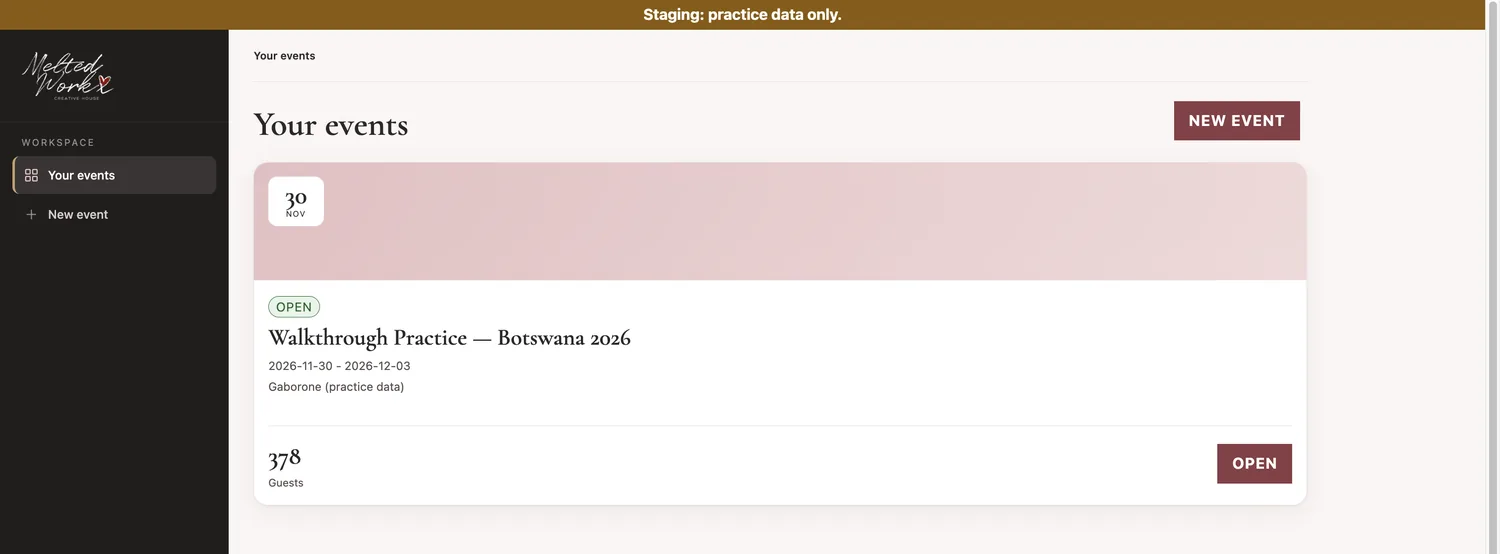
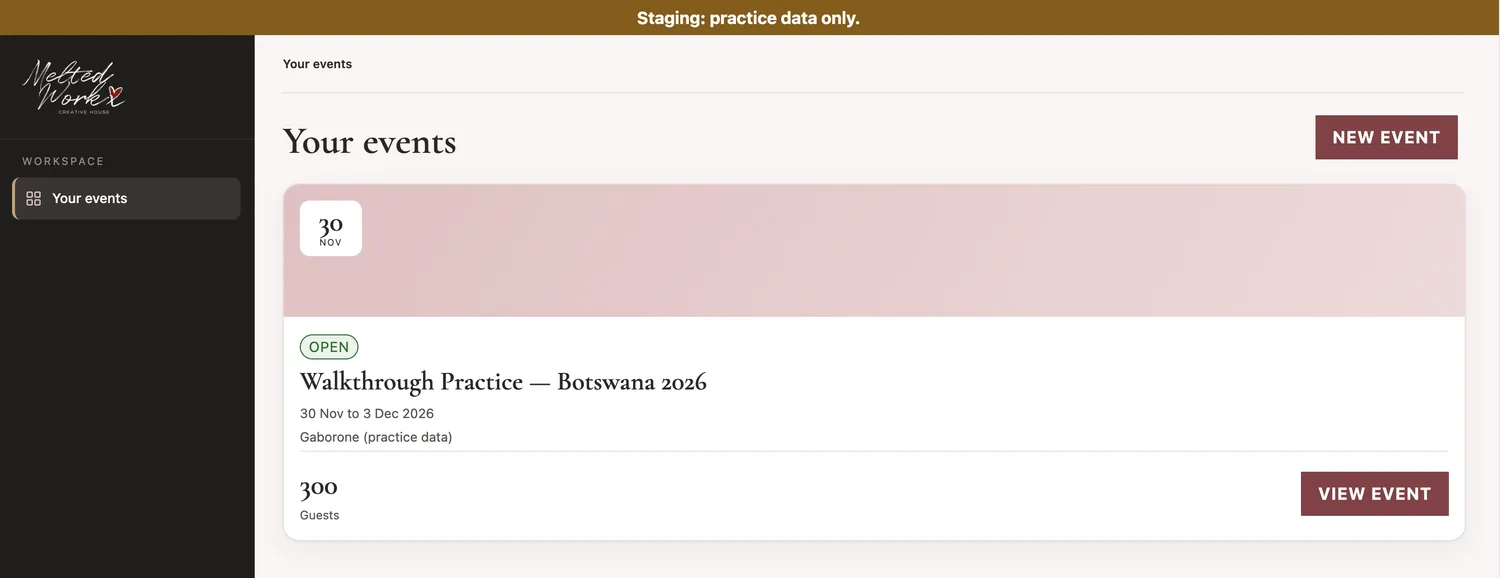
Guide: screens and dots updated to the current app (View event, Badges, Event settings); new lessons 11 Print badges and 12 Event settings; consent labels note removed
Claude-Session: https://claude.ai/code/session_01N73uZ8eB831CeU7QP6mg8R

Changed region(s): [[0.0, 0.0, 1.0, 1.0], [0.0, 0.0921, 0.092, 0.1841]]

diff --git a/meltedworkx-001/guide/index.html b/meltedworkx-001/guide/index.html
@@ -168,22 +168,24 @@ const LESSONS=[
 {id:"your-events",name:"Find your event",eyebrow:"Lesson 2",title:"Find your event",
  why:"Each event lives on its own card. Guests from one event never mix with another.",
  screens:[{label:"Your events",img:"events",pins:[
-  P(44.5,60.82,"The event card","The event's name, dates and venue. Botswana has its own card."),
-  P(22.5,83.72,"Guests","How many guests are in this event right now."),
-  P(78.6,83.51,"Open","Click here to go inside the event. This is the button you will use most."),
-  P(10.6,31.51,"Your events","From anywhere in the platform, this brings you back to this list.")],
-  steps:["Find the card for your event.","Click the burgundy <b>Open</b> button on the card."]}],
- quiz:{q:"How do you get inside the Botswana event?",o:["Click the Open button on its card","Click New event","Type the event name in the browser"],a:0,
-  why:"Open takes you in. New event is only for creating a different event."}},
+  P(50.0,66.0,"The event card","The event's name, dates and venue. Botswana has its own card."),
+  P(26.1,60.0,"Open","Open means the event is running and ready to use."),
+  P(25.2,84.0,"Guests","How many guests are in this event right now."),
+  P(84.4,85.2,"View event","Click here to go inside the event. This is the button you will use most."),
+  P(14.7,34.3,"Your events","From anywhere in the platform, this brings you back to this list.")],
+  steps:["Find the card for your event.","Click the burgundy <b>View event</b> button on the card."]}],
+ quiz:{q:"How do you get inside the Botswana event?",o:["Click the View event button on its card","Click New event","Type the event name in the browser"],a:0,
+  why:"View event takes you in. New event is only for creating a different event."}},
 
 {id:"morning-check",name:"The morning check",eyebrow:"Lesson 3",title:"The morning check",
  why:"One page replaces the sheets and the chats. Thirty seconds here tells you where the event stands.",
  screens:[{label:"The four numbers",img:"overview-top",pins:[
-  P(12,50,"The menu","Everything about this event: Guests, Import, Messages, Check-in and Crew. Overview is this page."),
-  P(24.1,56.86,"Guests","Everyone in the event."),
-  P(40.91,56.86,"Check-ins","How many check-ins have been recorded across all the days."),
-  P(57.73,56.86,"Messages sent","Messages that went out to guests."),
-  P(74.55,56.86,"Failed messages","In red because a person needs to look. Lesson 8 shows what to do.")],
+  P(13.8,51.2,"The menu","Everything about this event: Overview, Guests, Import, Messages, Check-in, Crew, Badges and Event settings. Overview is this page."),
+  P(49.5,30.5,"Open the check-in desk","A shortcut to the check-in desk. Lesson 9 shows how to use it."),
+  P(32.1,37.5,"Guests","Everyone in the event."),
+  P(50.3,37.5,"Check-ins","How many check-ins have been recorded across all the days."),
+  P(68.1,37.5,"Messages sent","Messages that went out to guests."),
+  P(86.0,37.5,"Failed messages","In red because a person needs to look. Lesson 8 shows what to do.")],
   steps:["Open your event. You land on <b>Overview</b>.","Read the four numbers from left to right.","If the red number is not zero, scroll down to <b>Needs attention</b>."]},
  {label:"The detail below",img:"overview-low",pins:[
   P(49.36,23.72,"Check-in, day by day","Arrivals on 30 November, then 1, 2 and 3 December. Each row shows how many guests are checked in for that day."),
@@ -197,23 +199,25 @@ const LESSONS=[
 {id:"guest-list",name:"Your guest list",eyebrow:"Lesson 4",title:"Your guest list",
  why:"Every guest in one list, with their contact details and whether they agreed to be messaged.",
  screens:[{label:"Guests",img:"guests",pins:[
-  P(26,6.18,"How many","The total for this event."),
-  P(27.5,19.41,"A guest's name","Click a name to open that guest. That is where you correct a flight, a pick-up time or a hotel for one person."),
-  P(81.6,29.9,"Green: agreed","This guest ticked the box, so they can be messaged."),
-  P(81.6,46.08,"Grey or red","Grey means the guest was never asked. Red means they said no. Neither will be messaged."),
-  P(83.2,7.94,"Import guest list","Adds guests from a file. The next lesson walks through it."),
-  P(66,13.4,"Export CSV","Downloads the list as a spreadsheet file.")],
+  P(27.5,17.2,"How many","The total for this event."),
+  P(31.7,31.8,"A guest's name","Click a name to open that guest. That is where you correct a flight, a pick-up time or a hotel for one person."),
+  P(87.2,31.5,"Can be messaged","This guest agreed, so they can be messaged."),
+  P(87.2,73.1,"Not asked yet","Grey means the guest was never asked. They will not be messaged."),
+  P(87.2,61.2,"Said no","Red means the guest said no. They will not be messaged."),
+  P(81.4,14.6,"Import guest list","Adds guests from a file. The next lesson walks through it."),
+  P(71.7,14.6,"Export CSV","Downloads the list as a spreadsheet file."),
+  P(63.9,14.6,"Print check-in badges","Opens the badges to print. Lesson 11 shows how.")],
   steps:["Click <b>Guests</b> in the menu.","Click a guest's name to see or correct their details."]}],
- note:"<b>These labels are being simplified.</b> The words in the last column will soon read \"Can be messaged\", \"Not asked yet\" and \"Said no\".",
  quiz:{q:"One guest's flight changed. Where do you fix it?",o:["Upload the whole guest list again","Open Guests and click that guest's name","Phone Deon"],a:1,
   why:"One guest, one click on their name. No need to re-upload anything."}},
 
 {id:"add-guests",name:"Bring in a guest list",eyebrow:"Lesson 5",title:"Bring in a guest list",
  why:"Your Google Form answers go in as a file. The platform reads it, shows you what it found, and saves nothing until you say so.",
  screens:[{label:"1. Upload",img:"import",pins:[
-  P(43,79.83,"Choose file","Pick the file from your computer. It must be a CSV file."),
-  P(24.5,89.32,"Upload and check the list","The platform reads the file and shows you a preview. Nothing is saved yet."),
-  P(19.5,41.53,"Shuttle list","A different job, for pick-up times. It has its own lesson.")],
+  P(47.2,82.7,"Choose file","Pick the file from your computer. It must be a CSV file."),
+  P(33.2,90.9,"Upload and check the list","The platform reads the file and shows you a preview. Nothing is saved yet."),
+  P(29.8,49.8,"Shuttle list","A different job, for pick-up times. It has its own lesson."),
+  P(56.9,74.0,"CSV only","Up to 5 MB and 5,000 rows. An Excel file (.xlsx) will not upload: download it as a CSV first.")],
   steps:["In Google Sheets: <b>File, Download, Comma-separated values (.csv)</b>.","In the platform, click <b>Import</b> in the menu.","Click <b>Choose file</b>, pick the CSV, then <b>Upload and check the list</b>."]},
  {label:"2. Match the columns",img:"import-match",pins:[
   P(11.67,33.75,"Your form's questions","Each line is one question from your Google Form."),
@@ -252,23 +256,21 @@ const LESSONS=[
 {id:"send-message",name:"Send a message",eyebrow:"Lesson 7",title:"Send a message",
  why:"Pick the message, pick who gets it, look at the preview, confirm. The platform does the rest.",
  screens:[{label:"1. Messages",img:"messaging",pins:[
-  P(70.5,30,"Send to guests","Start here to send. You always see a preview first."),
-  P(94.5,30,"Outbox","What happened to every message: sent, delivered, failed or blocked."),
-  P(46.6,30,"Templates","The wording of each message. Deon looks after these.")],
+  P(30.4,69.7,"Templates","The wording of each message, and whether WhatsApp has approved it. Deon looks after these."),
+  P(61.3,69.7,"Send to guests","Start here to send. You always see a preview first."),
+  P(92.6,69.7,"Outbox","What happened to every message: sent, delivered, failed or blocked.")],
   steps:["Click <b>Messages</b> in the menu.","Click <b>Send to guests</b>."]},
- {label:"2. Choose and confirm",sketch:[
-  ["Choose what to send","Pick the message, for example the shuttle departure notice."],
-  ["How sent","WhatsApp or SMS."],
-  ["Who gets it","One guest (search by name), the guests with a certain pick-up date, or everyone."],
-  ["Preview","Read the message exactly as the guest will see it."],
-  ["Confirm and queue","The message joins the queue to be sent."]],
-  steps:["Choose the message and how it is sent.","Choose who gets it.","Read the preview, then click <b>Confirm and queue</b>."]},
+ {label:"2. Choose and confirm",img:"send",pins:[
+  P(45.1,38.3,"Find a guest","Only for sending to one person. Type a name or reservation number. Skip it to send to everyone."),
+  P(78.3,60.3,"Message","Pick which message to send, for example the shuttle departure notice."),
+  P(78.3,71.1,"How sent","WhatsApp or SMS."),
+  P(76.6,82.4,"Who gets it","All guests, or one guest. Guests who did not agree are skipped automatically.")],
+  steps:["Choose the message and how it is sent.","Choose who gets it: one guest, the guests with a certain pick-up date, or everyone.","Read the preview exactly as the guest will see it, then click <b>Confirm and queue</b>."]},
  {label:"3. See what happened",img:"results",pins:[
-  P(26.05,20.33,"The totals","How many messages, and how many failed."),
-  P(26,28.62,"Send waiting messages now","Only in the practice version, so you can watch it happen. In the real version messages send by themselves."),
-  P(80,37.97,"Filters","Click one to see only those messages, for example Failed."),
-  P(47,47.8,"Status","Waiting to send, Sent or Delivered."),
-  P(69,88.86,"Failed, in red","The reason is written next to it. Lesson 8 covers what to do.")],
+  P(22.7,32.6,"The totals","How many messages, and how many failed."),
+  P(25.4,46.3,"Send waiting messages now","Only in the practice version, so you can watch it happen. In the real version messages send by themselves."),
+  P(66.9,63.6,"Filters","Click one to see only those messages, for example Failed or Blocked."),
+  P(55.8,78.9,"Blocked, in red","The reason is written under the status. Here the guest never agreed to be messaged, so nothing was sent. Lesson 8 covers messages that failed.")],
   steps:["Open <b>Outbox</b> to follow your messages.","Look for red rows."]}],
  quiz:{q:"You clicked Confirm and queue. Has the guest received the message yet?",o:["Yes, instantly","Not yet. It is in the queue and is sent shortly after","Only if you phone them"],a:1,
   why:"Confirming puts the message in the queue. The Outbox shows when it is sent and delivered."}},
@@ -285,14 +287,13 @@ const LESSONS=[
   why:"Three tries, then it is put in front of a person."}},
 
 {id:"check-in",name:"Check guests in",eyebrow:"Lesson 9",title:"Check guests in",
- why:"On the day you find each guest by name. No scanner, no printed list.",
+ why:"On the day you find each guest by name, and check them in for that day.",
  screens:[{label:"The check-in desk",img:"checkin",pins:[
-  P(44,19.79,"Pick the day","Day 1 is arrivals on 30 November. Days 2 to 4 are 1, 2 and 3 December."),
-  P(48.5,25.52,"The count","How many guests are checked in for the chosen day."),
-  P(49.44,36.15,"Find a guest","Type part of a name or a reservation number."),
-  P(21.5,42.5,"Search","Click to see the matching guests, then check the right one in."),
-  P(49.44,70.83,"Recent check-ins","The last guests checked in, newest first."),
-  P(64.5,95.83,"Without internet","Use this desk when the wifi is unreliable. See the next tab.")],
+  P(49.3,31.3,"Pick the day","Day 1 is arrivals on 30 November. Days 2 to 4 are 1, 2 and 3 December."),
+  P(53.4,39.5,"The count","How many guests are checked in for the chosen day."),
+  P(94.5,55.7,"Find a guest","Type part of a name or a reservation number."),
+  P(24.0,65.1,"Search","Click to see the matching guests, then check the right one in."),
+  P(53.4,77.6,"Recent check-ins","The last guests checked in, newest first.")],
   steps:["Click <b>Check-in</b> in the menu.","Make sure the right day is selected.","Type the guest's name, click <b>Search</b>, and check them in."]},
  {label:"If the wifi drops",sketch:[
   ["Open the offline desk before doors open","Do it with wifi on, and wait until the guest list has loaded."],
@@ -307,18 +308,44 @@ const LESSONS=[
 {id:"crew-access",name:"Give your crew access",eyebrow:"Lesson 10",title:"Give your crew access",
  why:"Door staff get the check-in desk for this event and nothing else.",
  screens:[{label:"Crew",img:"crew",pins:[
-  P(38.31,31.94,"Name","The crew member's name."),
-  P(38.31,43.19,"Email","Their email address. It becomes their login."),
-  P(38.31,54.44,"Role label","Optional. For example \"Door staff\"."),
-  P(30,62.64,"Create crew access","Creates their login and shows a one-time password."),
-  P(88.5,92.36,"Switch off","Removes that person's access straight away."),
-  P(27.6,76.3,"Status","Active or Switched off, and the date their access ends.")],
+  P(80.7,31.1,"Name","The crew member's name."),
+  P(80.7,42.7,"Email","Their email address. It becomes their login."),
+  P(80.7,54.3,"Role label","Optional. For example \"Door staff\"."),
+  P(31.0,62.9,"Create crew access","Creates their login and shows a one-time password."),
+  P(39.8,96.1,"Status","Active or Switched off, and the date their access ends."),
+  P(93.6,93.9,"Switch off","Removes that person's access straight away.")],
   steps:["Click <b>Crew</b> in the menu.","Type the person's name and email, then click <b>Create crew access</b>.","Give them the one-time password in person, there and then."]}],
  note:"<b>The password is shown once.</b> It cannot be looked up later. If it is lost, create the access again.",
  quiz:{q:"The one-time password appears on your screen. What do you do with it?",o:["Email it to the crew member","Give it to them in person, right away","Save it for later"],a:1,
   why:"In person, straight away. It is shown once and never again."}},
 
-{id:"ipad-test",name:"Test your iPad",eyebrow:"Lesson 11 · about 10 minutes · on the iPad",title:"Test your iPad without wifi",
+{id:"badges",name:"Print badges",eyebrow:"Lesson 11",title:"Print check-in badges",
+ why:"One badge per guest, ready to print. Each has a scan code for your staff.",
+ screens:[{label:"Print badges",img:"badges",pins:[
+  P(96.7,22.0,"Printing","Use your browser's Print command (Ctrl or Cmd and P). Each badge stays whole on an A4 page. Do not email or WhatsApp these images to guests."),
+  P(29.4,36.3,"Order","Choose the order the badges print in. The default is surname, then first name."),
+  P(16.1,45.7,"Pages","Badges come 100 at a time. Use Next page to get the rest."),
+  P(35.6,79.1,"One badge","One badge per guest: their name and a scan code. The code holds no name or contact details, and is for staff scanning only.")],
+  steps:["Click <b>Badges</b> in the menu, or <b>Print check-in badges</b> on the Guests page.","Choose the order, then use your browser's Print command.","Badges come 100 at a time. Click <b>Next page</b> for the rest."]}],
+ note:"<b>Check-in by name always works too.</b> A guest without a badge can still be found and checked in at the desk.",
+ quiz:{q:"Can you WhatsApp a badge image to a guest?",o:["Yes, it is only a picture","No. Badges are printed, never sent to guests as images","Only to VIPs"],a:1,
+  why:"The page says not to email or WhatsApp the images. The scan code is for staff scanning only."}},
+
+{id:"event-settings",name:"Event settings",eyebrow:"Lesson 12",title:"Event settings",
+ why:"The event's name, dates, venue and expected headcount live in one place. You will rarely need it.",
+ screens:[{label:"Event settings",img:"settings",pins:[
+  P(61.4,50.7,"Name","The event's name, as everyone sees it."),
+  P(66.9,35.5,"The warning","Once guests are in, changing the dates is allowed but may affect their travel."),
+  P(61.4,60.2,"Start and end date","The first and last day of the event."),
+  P(61.4,70.3,"Expected headcount","How many people you expect."),
+  P(17.2,77.6,"Save changes","Nothing changes until you click this."),
+  P(14.8,93.1,"Close event","Hides the event when it is over. Nothing is deleted.")],
+  steps:["Click <b>Event settings</b> in the menu.","Change what you need, then click <b>Save changes</b>.","Use <b>Close event</b> only when the event is over."]}],
+ note:"<b>Closing hides the event. Nothing is deleted.</b> The guests and their records stay safe.",
+ quiz:{q:"What does Close event do?",o:["Deletes the event and its guests","Hides the event. Nothing is deleted","Sends every guest a goodbye message"],a:1,
+  why:"Closing only hides the event. Nothing is deleted."}},
+
+{id:"ipad-test",name:"Test your iPad",eyebrow:"Lesson 13 · about 10 minutes · on the iPad",title:"Test your iPad without wifi",
  why:"We have not tried your iPad yet. It is an older model, so this short test shows whether it can check guests in with no internet. Either answer is useful, and there is time to adjust before 30 November.",
  check:[
   ["Open the offline desk","On the iPad, in Safari, with wifi on: sign in, tap Check-in, then tap the link \"Internet unreliable? Use without internet\"."],
@@ -330,7 +357,7 @@ const LESSONS=[
   ["Turn Airplane Mode off","The line should go back to Online and the waiting check-in should save by itself. If it does not, tap \"Send saved check-ins now\"."],
   ["Sign out and clear this device","Tap it at the end. The guest list should be gone from the iPad."]]},
 
-{id:"get-help",name:"Get help",eyebrow:"Lesson 12",title:"Get help",
+{id:"get-help",name:"Get help",eyebrow:"Lesson 14",title:"Get help",
  why:"If something looks wrong, stop and send us a picture of it. You cannot break the practice version.",
  help:true}
 ];
